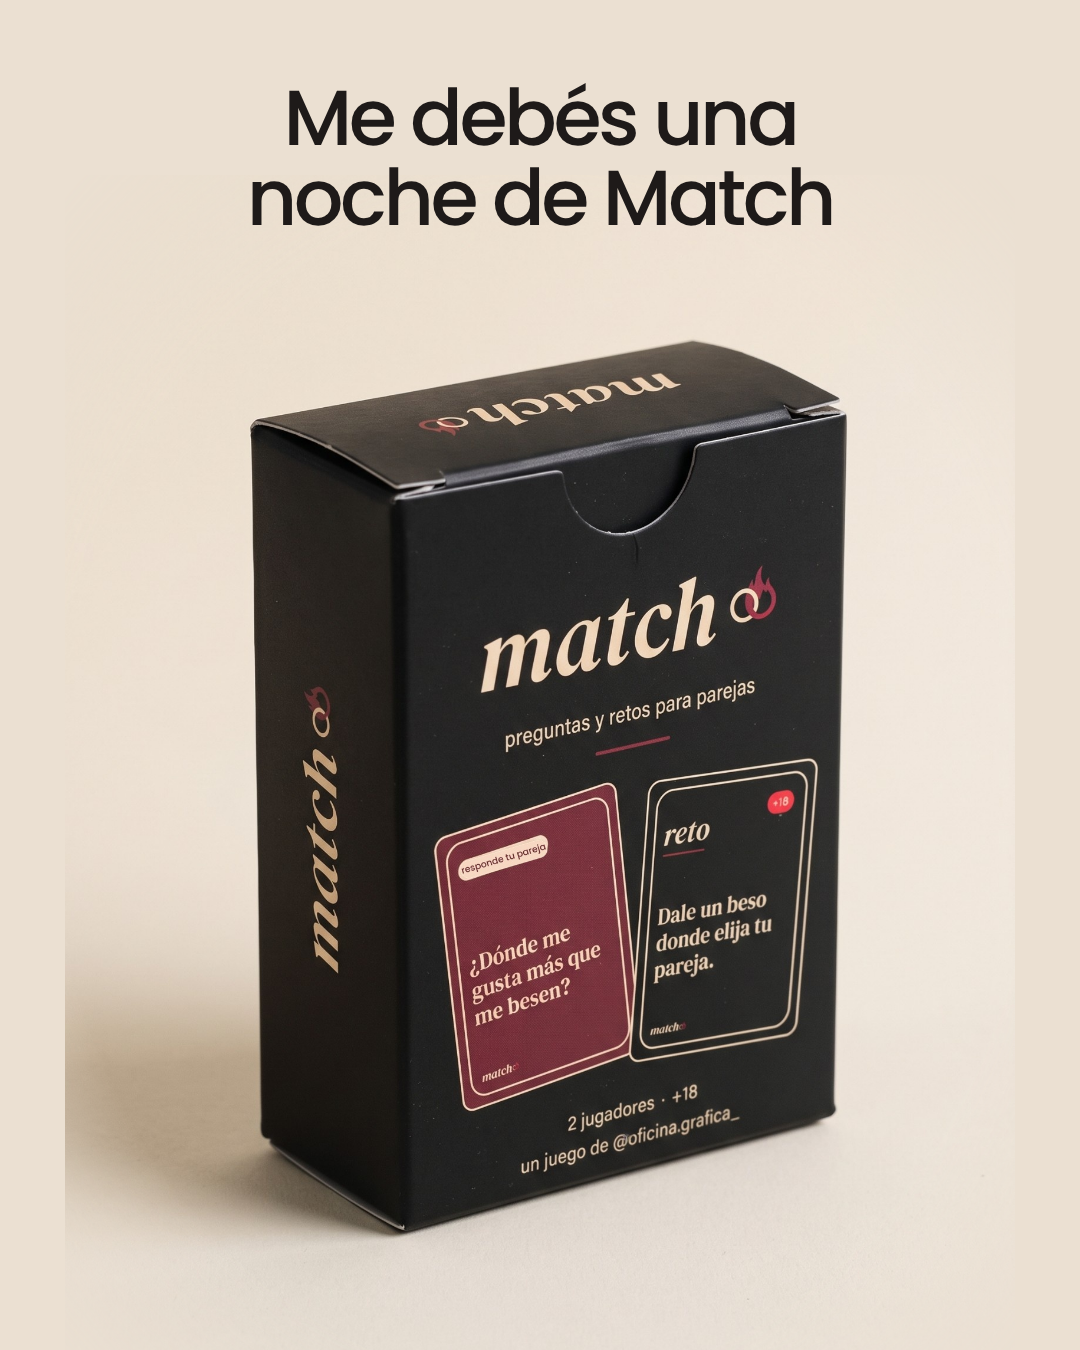
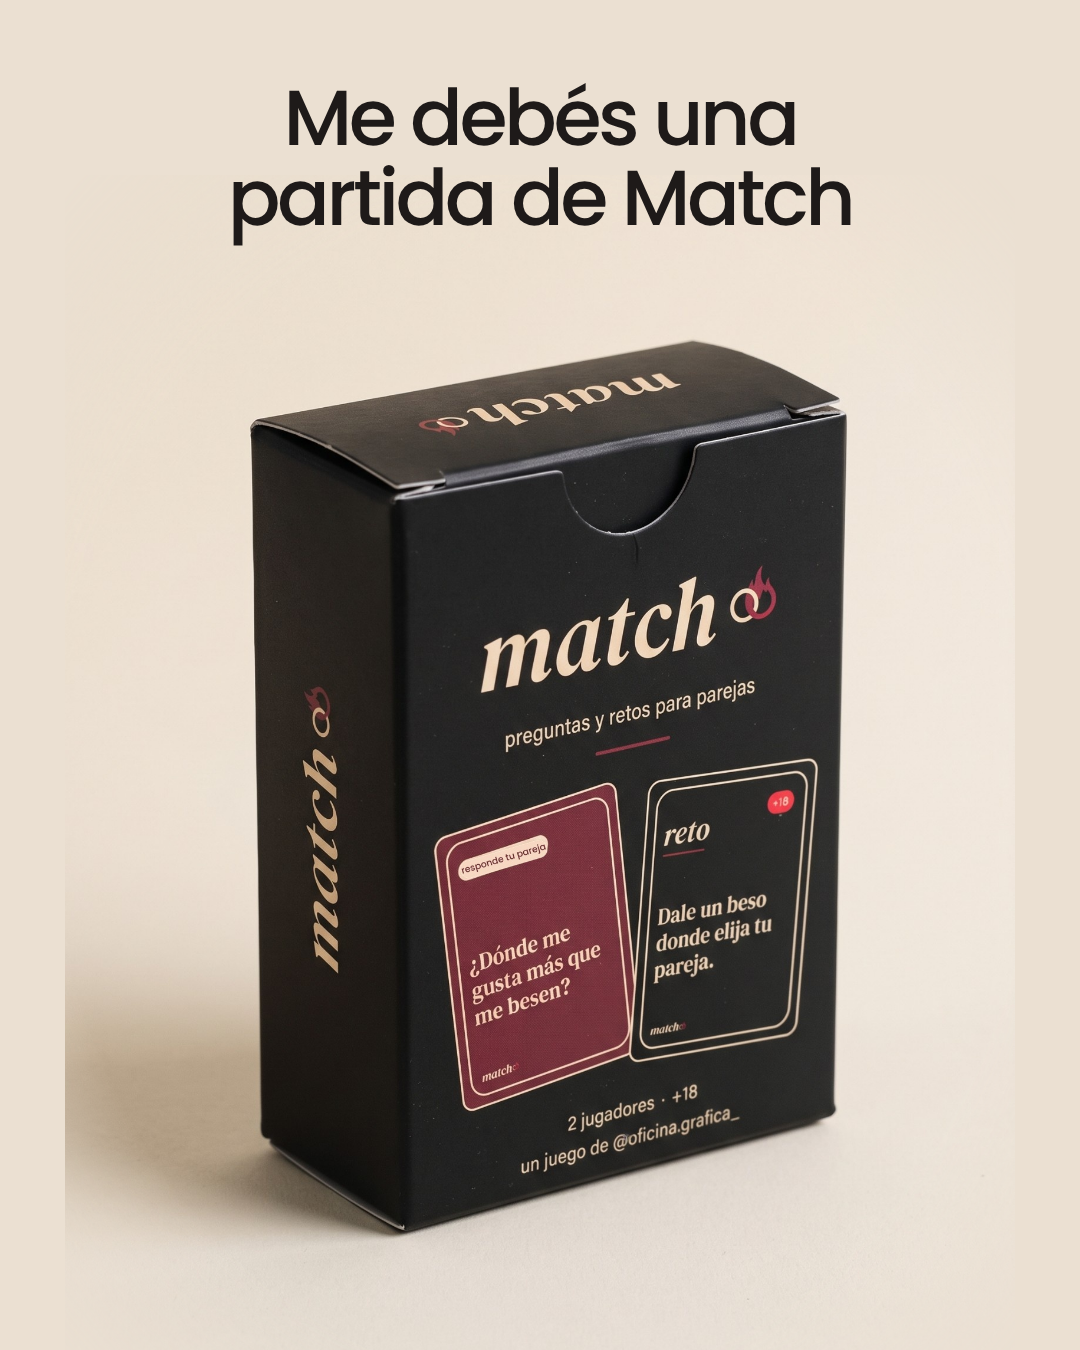
Redes: «Me debés una partida de Match» en la segunda diapositiva
Claude-Session: https://claude.ai/code/session_01FGxw9aPArw9pn3yxwBbtRR

Changed region(s): [[0.2139, 0.1244, 0.7944, 0.1867]]

diff --git a/redes/match-abri-la-foto/carrusel.html b/redes/match-abri-la-foto/carrusel.html
@@ -48,7 +48,7 @@
   </div>
   <div class="slide s2">
     <div class="foto"></div>
-    <div class="titulo">Me debés una<br>noche de Match</div>
+    <div class="titulo">Me debés una<br>partida de Match</div>
   </div>
 </div>
 </body></html>
